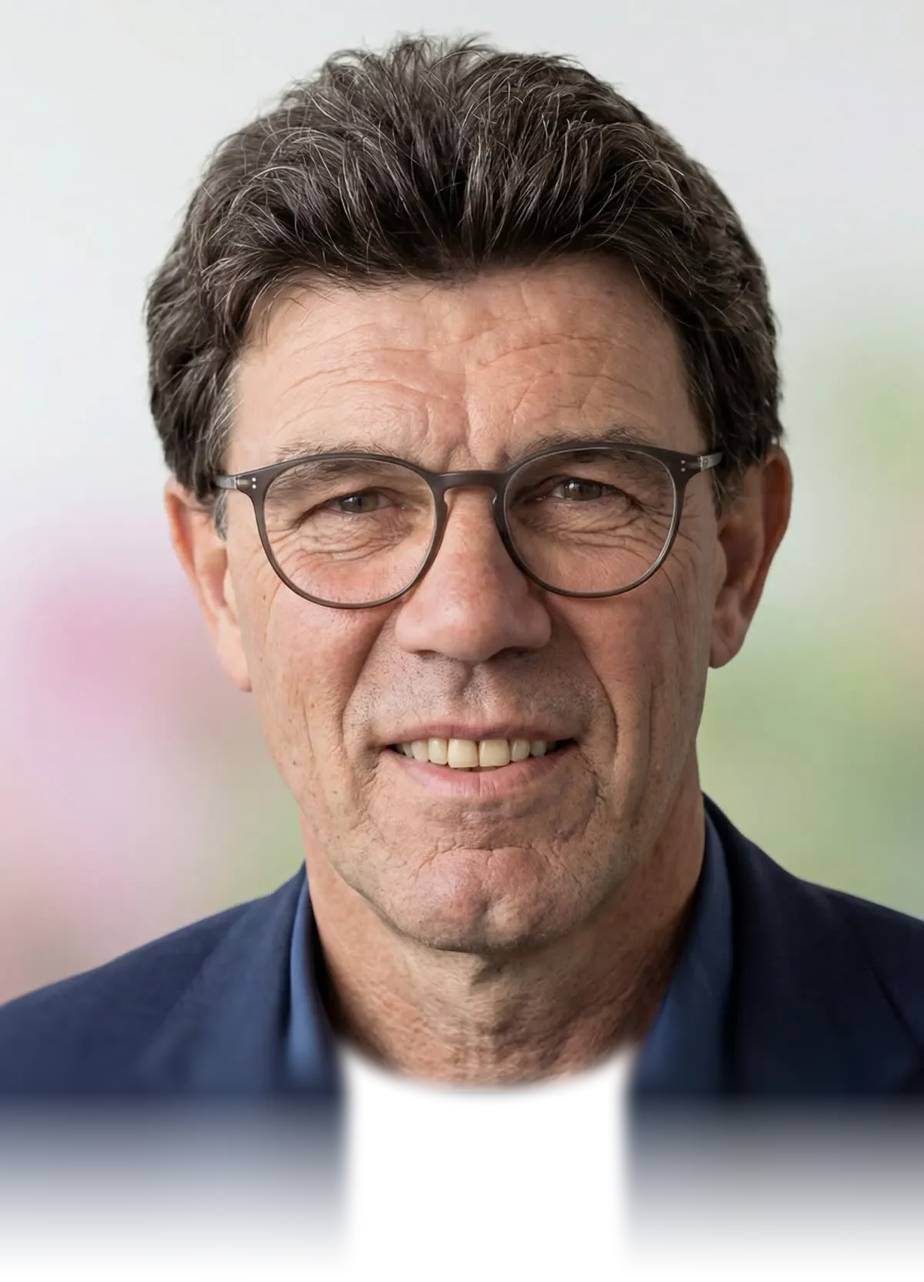
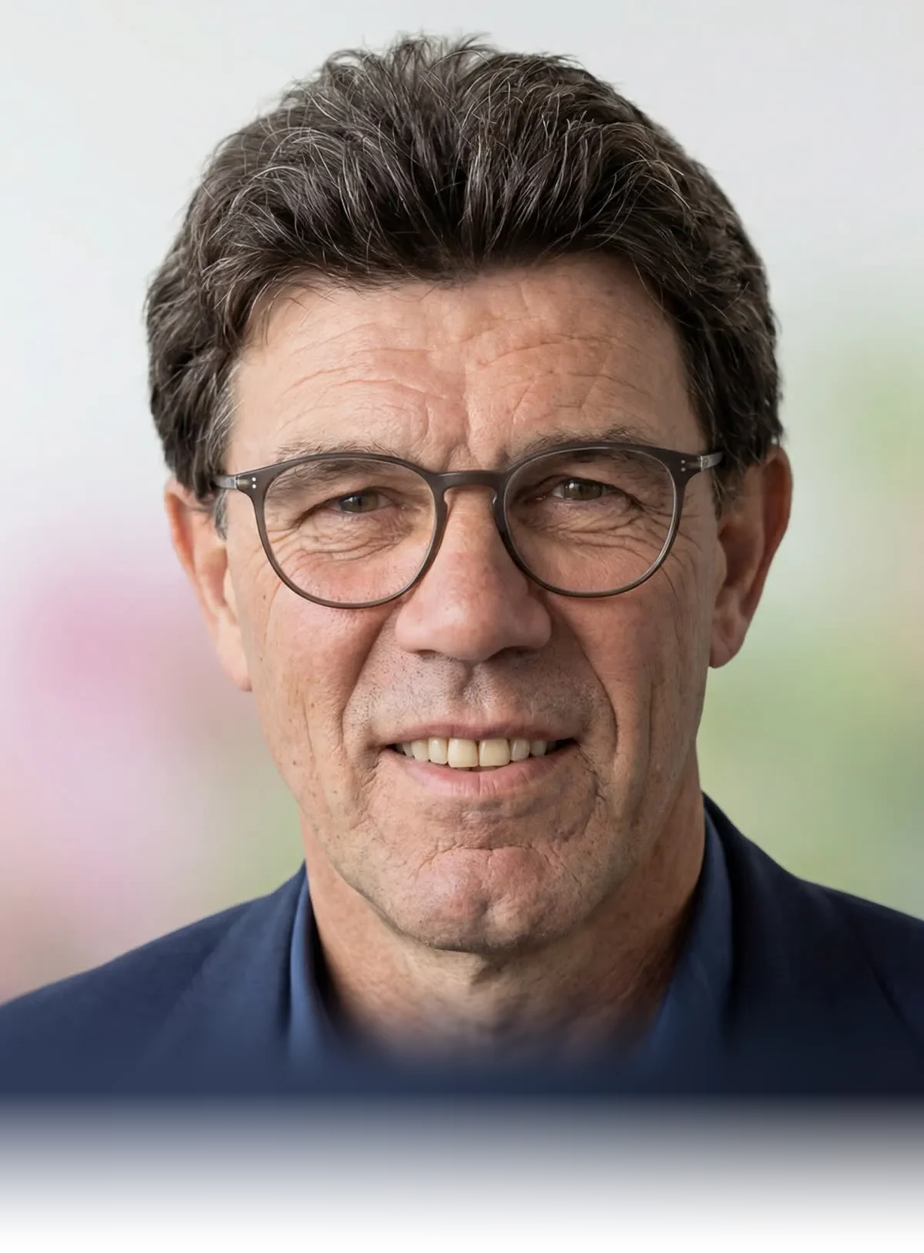
Founder mockup (phone, navy 3): one uniform fade, no arc
The arc cut-out looked patched. The photo now softens and fades evenly
across its width over a broad gradient in the jacket's own tones.

Claude-Session: https://claude.ai/code/session_017WGSR2bqFmGwdHZQuiThhV

diff --git a/mockup-v3/block-mockups/waarom-kweker/index.html b/mockup-v3/block-mockups/waarom-kweker/index.html
@@ -95,14 +95,14 @@
   /* 1 = first version: fade from 86 %, text pulled up 14px */
   .m-n1 .fd-ph .ph-in{-webkit-mask-image:linear-gradient(to bottom,#000 86%,rgba(0,0,0,.84) 89%,rgba(0,0,0,.55) 92.5%,rgba(0,0,0,.26) 96%,rgba(0,0,0,.08) 98.5%,transparent 100%);mask-image:linear-gradient(to bottom,#000 86%,rgba(0,0,0,.84) 89%,rgba(0,0,0,.55) 92.5%,rgba(0,0,0,.26) 96%,rgba(0,0,0,.08) 98.5%,transparent 100%)}
   .m-n1 .fd-pn{margin-top:-14px}
-  /* 3 = phone portrait img/owner-portrait-m.webp (1200x1665): below the chin the photo goes progressively soft (sharp neck
-     texture no longer meets a smooth haze), then each column's own colour continues 72px and fades into the card
-     (jacket longer, neck shorter and muted). Everything baked into the image; no CSS mask. */
-  .m-n3 .fd-ph{aspect-ratio:1200/1665}
+  /* 3 = phone portrait img/owner-portrait-m.webp (1200x1628), one treatment across the full width: below the chin the photo
+     goes progressively soft and fades out (from 89 %, smoothstep) over a broad gradient in the jacket's own tones
+     (lit left, shadow right), which then fades into the card over 61px. No zones, masks or cut-outs. */
+  .m-n3 .fd-ph{aspect-ratio:1200/1628}
   .m-n3 .fd-ph picture{display:none}
   .m-n3 .fd-ph .ph-in{-webkit-mask-image:none;mask-image:none}
   .m-n3 .fd-ph .ph-in img.ph-m{display:block}
-  .m-n3 .fd-pn{margin-top:-16px}
+  .m-n3 .fd-pn{margin-top:-5px}
 }
 a:focus-visible{outline:2px solid var(--moss);outline-offset:3px}
 @media (max-width:1100px){.adv{grid-template-columns:repeat(2,minmax(0,1fr))}}
@@ -129,7 +129,7 @@ header.fixed{top:48px}
 .rv button[aria-pressed="true"]{background:#f1efea;color:#141413;border-color:#f1efea}
 .rv .sep{width:1px;height:22px;background:#3a3a36}
 @media (max-width:520px){.rv .l{display:none}.rv button{min-width:36px;padding:0 10px}.rv-g i{display:none}}
-</style></head><body><div class="rv" role="group" aria-label="Варианты"><div class="rv-g"><i>Waarom wij</i><button type="button" data-g="w" data-v="a" aria-pressed="true">A<span class="l"> · Список</span></button><button type="button" data-g="w" data-v="b" aria-pressed="false">B<span class="l"> · Преимущества</span></button></div><span class="sep" aria-hidden="true"></span><div class="rv-g"><i>Телефон</i><button type="button" data-g="m" data-v="n1" aria-pressed="false">1<span class="l"> · было</span></button><button type="button" data-g="m" data-v="n2" aria-pressed="false">2<span class="l"> · сейчас</span></button><button type="button" data-g="m" data-v="n3" aria-pressed="true">3<span class="l"> · пиджак</span></button><button type="button" data-g="m" data-v="light" aria-pressed="false">Светлая</button></div></div><div id="root"><header class="fixed inset-x-0 top-0 z-50"><div class="transition-all duration-500"><div class="mx-auto flex items-center justify-between border-b border-fg/10 bg-bg/90 text-fg backdrop-blur-xl transition-all duration-500 supports-[backdrop-filter]:bg-bg/80 w-full container-x h-16 md:h-20"><a href="#" aria-label="Top Rhododendrons, naar de homepage" class="flex items-center"><span class="inline-flex items-center gap-2.5 text-fg"><svg viewBox="0 0 40 40" class="size-8 shrink-0" aria-hidden="true" focusable="false"><rect x="1" y="1" width="38" height="38" rx="11" fill="currentColor"></rect><path d="M12 13h16" stroke="var(--color-bg)" stroke-width="2.6" stroke-linecap="round"></path><path d="M20 13v15" stroke="var(--color-bg)" stroke-width="2.6" stroke-linecap="round"></path><path d="M20 28c0-6 3.5-9.5 9-9.5 0 6-3.5 9.5-9 9.5Z" fill="var(--color-bg)"></path></svg><span class="flex flex-col leading-none"><span class="whitespace-nowrap font-display font-semibold tracking-[-0.02em] text-[17px]">Top Rhododendrons</span></span></span></a><nav class="hidden items-center gap-7 lg:flex" aria-label="Hoofdnavigatie"><a href="#planten" class="text-[14px] tracking-[0.01em] transition-colors text-fg-2 hover:text-fg">Planten</a><a href="#kweker" class="text-[14px] tracking-[0.01em] transition-colors text-fg-2 hover:text-fg">De kweker</a><a href="#advies" class="text-[14px] tracking-[0.01em] transition-colors text-fg-2 hover:text-fg">Advies</a><a href="#" class="text-[14px] tracking-[0.01em] transition-colors hover:text-fg font-medium text-fg">Groothandel</a></nav><div class="flex items-center gap-3"><div class="hidden lg:block"><a class="inline-flex items-center justify-center gap-2 whitespace-nowrap font-medium transition-all duration-300 disabled:opacity-60 disabled:pointer-events-none select-none bg-accent text-accent-fg hover:opacity-90 h-10 px-4 text-[13px] rounded-ui group/btn" href="#planten">Bestellen</a></div><button type="button" aria-expanded="false" aria-controls="mobile-menu" aria-label="Menu openen" class="relative flex size-11 items-center justify-center rounded-full border border-fg/25 text-fg lg:hidden"><span class="absolute h-px w-5 bg-current transition-transform duration-300 -translate-y-[3px]"></span><span class="absolute h-px w-5 bg-current transition-transform duration-300 translate-y-[3px]"></span></button></div></div></div></header><main id="main"><section id="hero" class="relative flex min-h-[100svh] w-full flex-col justify-end overflow-hidden bg-black text-white on-dark tabp:justify-start split:justify-center"><div class="absolute inset-0"><img src="img/hero-field.jpg" alt="" aria-hidden="true" class="absolute inset-0 h-full w-full object-cover" style="object-position: 45% 60%;"><div class="pointer-events-none absolute inset-0 bg-black/10 split:hidden sc-veil"></div><div aria-hidden="true" class="hero-scrim hero-scrim-photo pointer-events-none absolute inset-0 hidden split:block"></div><div class="pointer-events-none absolute inset-x-0 bottom-0 bg-gradient-to-t to-transparent tabp:hidden split:hidden h-[68%] from-black/90 via-black/72 sc-phone"></div><div class="pointer-events-none absolute inset-x-0 top-0 hidden h-[62%] bg-gradient-to-b from-black/80 via-black/45 to-transparent tabp:block sc-tab"></div></div><div class="relative w-full container-x pt-28 pb-7 shortphone:pb-5 tabp:pt-32 split:py-28"><div class="flex max-w-4xl flex-col items-start gap-3 md:gap-5 tabp:max-w-[21.5rem] split:max-w-[36rem]"><h1 class="font-display text-balance text-[clamp(30px,8.4vw,38px)] font-medium leading-[0.98] tracking-[-0.04em] tabp:text-[36px] split:text-[clamp(38px,4.6vw,72px)]"><span class="inline-flex flex-wrap"><span class="inline-block" style="margin-right: 0.26em; opacity: 1; transform: none;">Rhododendrons</span><span class="inline-block" style="margin-right: 0.26em; opacity: 1; transform: none;">die</span><span class="inline-block" style="margin-right: 0.26em; opacity: 1; transform: none;">aanslaan.</span><span class="inline-block" style="margin-right: 0.26em; opacity: 1; transform: none;">Met</span><span class="inline-block" style="margin-right: 0px; opacity: 1; transform: none;">aangroeigarantie.</span></span></h1><p class="max-w-xl text-[15px] leading-relaxed text-white/90 shortphone:hidden md:text-lg split:text-[17px]" style="opacity: 1; transform: none;">Gekweekt op veenrijke bodem, met een sterk wortelstelsel. Vers gerooid voor uw levering, bezorgd met eigen transport of af te halen in Otterlo.</p><div class="mt-1 flex flex-wrap gap-3" style="opacity: 1; transform: none;"><a class="inline-flex items-center justify-center gap-2 whitespace-nowrap font-medium transition-all duration-300 disabled:opacity-60 disabled:pointer-events-none select-none bg-white text-[#141414] hover:bg-white/90 h-12 text-[14px] rounded-ui group/btn px-5 split:h-14 split:px-8 split:text-[15px]" href="#planten">Bekijk de planten<svg xmlns="http://www.w3.org/2000/svg" width="24" height="24" viewBox="0 0 24 24" fill="none" stroke="currentColor" stroke-width="2" stroke-linecap="round" stroke-linejoin="round" class="lucide lucide-arrow-right size-4 transition-transform duration-300 group-hover/btn:translate-x-1" aria-hidden="true"><path d="M5 12h14"></path><path d="m12 5 7 7-7 7"></path></svg></a><a class="inline-flex items-center justify-center gap-2 whitespace-nowrap font-medium transition-all duration-300 disabled:opacity-60 disabled:pointer-events-none select-none border border-white/70 text-white hover:bg-white hover:text-[#141414] hover:border-white h-12 text-[14px] rounded-ui group/btn px-5 split:h-14 split:px-8 split:text-[15px]" href="#">Groothandel</a></div></div></div></section><section class="wh" id="waarom" aria-labelledby="h-waarom"><div class="in"><div class="wh-head"><h2 id="h-waarom">Wij kweken rhododendrons. <span class="nb">Niet meer, niet minder.</span></h2><p>Onze planten groeien in de volle grond op veenrijke bodem en ontwikkelen daar een sterk wortelstelsel. Gerooid met kluit, direct van het veld naar uw tuin.</p></div><ul class="srow" aria-label="Feiten"><li><b>10.000</b><span>planten op voorraad</span></li><li><b>Sinds 2001</b><span>familiekwekerij in Otterlo</span></li><li><b>7 soorten</b><span>in 4 maten, 40 tot 120 cm</span></li><li><b>Vanaf 1 plant</b><span>geen minimumbestelling</span></li></ul><div class="wa"><ol class="el"><li><span class="n">01</span><div class="el-t"><h3>Aangroeigarantie op elke plant</h3><p>Niet aangeslagen in het eerste seizoen? Wij vervangen kosteloos.</p></div><span class="el-note">Wij vervangen kosteloos</span></li><li><span class="n">02</span><div class="el-t"><h3>Vers gerooid voor uw levering</h3><p>Wij stemmen bezorging of afhaal af op uw planning en rooien uw planten pas vlak daarvoor.</p></div><span class="el-note">Op uw planning</span></li><li><span class="n">03</span><div class="el-t"><h3>Persoonlijk advies van de kweker</h3><p>U spreekt rechtstreeks met Gert, van vraag tot levering.</p></div><span class="el-note">Rechtstreeks met Gert</span></li><li><span class="n">04</span><div class="el-t"><h3>Eigen transport of afhalen</h3><p>Bezorgd met eigen transport door heel Nederland, of af te halen in Otterlo.</p></div><span class="el-note">Heel Nederland of Otterlo</span></li></ol></div><div class="wb"><ul class="adv"><li><svg class="ic" viewBox="0 0 24 24" aria-hidden="true"><path d="M20 13c0 5-3.5 7.5-7.66 8.95a1 1 0 0 1-.67-.01C7.5 20.5 4 18 4 13V6a1 1 0 0 1 1-1c2 0 4.5-1.2 6.24-2.72a1.17 1.17 0 0 1 1.52 0C14.51 3.81 17 5 19 5a1 1 0 0 1 1 1z" data-accent="" style="fill:var(--wash);fill-opacity:.55"/><path d="M20 13c0 5-3.5 7.5-7.66 8.95a1 1 0 0 1-.67-.01C7.5 20.5 4 18 4 13V6a1 1 0 0 1 1-1c2 0 4.5-1.2 6.24-2.72a1.17 1.17 0 0 1 1.52 0C14.51 3.81 17 5 19 5a1 1 0 0 1 1 1z"/></svg><div><h3>Aangroeigarantie op elke plant</h3><p>Niet aangeslagen in het eerste seizoen? Wij vervangen kosteloos.</p></div></li><li><svg class="ic" viewBox="0 0 24 24" aria-hidden="true"><path d="M16 14v2.2l1.6 1" data-accent=""/><path d="M16 14v2.2l1.6 1"/><path d="M16 2v4" data-accent=""/><path d="M16 2v4"/><path d="M21 7.5V6a2 2 0 0 0-2-2H5a2 2 0 0 0-2 2v14a2 2 0 0 0 2 2h3.5" data-accent=""/><path d="M21 7.5V6a2 2 0 0 0-2-2H5a2 2 0 0 0-2 2v14a2 2 0 0 0 2 2h3.5"/><path d="M3 10h5" data-accent=""/><path d="M3 10h5"/><path d="M8 2v4" data-accent=""/><path d="M8 2v4"/><circle cx="16" cy="16" r="6" data-accent="" style="fill:var(--wash);fill-opacity:.55"/><circle cx="16" cy="16" r="6"/></svg><div><h3>Vers gerooid voor uw levering</h3><p>Wij stemmen bezorging of afhaal af op uw planning en rooien uw planten pas vlak daarvoor.</p></div></li><li><svg class="ic" viewBox="0 0 24 24" aria-hidden="true"><path d="M2.992 16.342a2 2 0 0 1 .094 1.167l-1.065 3.29a1 1 0 0 0 1.236 1.168l3.413-.998a2 2 0 0 1 1.099.092 10 10 0 1 0-4.777-4.719" data-accent=""/><path d="M2.992 16.342a2 2 0 0 1 .094 1.167l-1.065 3.29a1 1 0 0 0 1.236 1.168l3.413-.998a2 2 0 0 1 1.099.092 10 10 0 1 0-4.777-4.719"/></svg><div><h3>Persoonlijk advies van de kweker</h3><p>U spreekt rechtstreeks met Gert, van vraag tot levering.</p></div></li><li><svg class="ic" viewBox="0 0 24 24" aria-hidden="true"><path d="M20 10c0 4.993-5.539 10.193-7.399 11.799a1 1 0 0 1-1.202 0C9.539 20.193 4 14.993 4 10a8 8 0 0 1 16 0" data-accent=""/><path d="M20 10c0 4.993-5.539 10.193-7.399 11.799a1 1 0 0 1-1.202 0C9.539 20.193 4 14.993 4 10a8 8 0 0 1 16 0"/><circle cx="12" cy="10" r="3" data-accent="" style="fill:var(--wash);fill-opacity:.55"/><circle cx="12" cy="10" r="3"/></svg><div><h3>Eigen transport of afhalen</h3><p>Bezorgd met eigen transport door heel Nederland, of af te halen in Otterlo.</p></div></li></ul></div></div></section><div class="between"><div class="in"><span>… hier volgen Assortiment en Hoe het werkt …</span></div></div><section class="fd" id="kweker" aria-labelledby="h-kweker"><div class="in"><div class="fd-card"><figure class="fd-ph"><div class="ph-in"><picture><source media="(min-width:861px)" srcset="img/owner-portrait-ext.webp" width="1580" height="1418"><img src="img/owner-portrait.webp" alt="Gert Top, oprichter en kweker van Top Rhododendrons" width="1200" height="1418" loading="lazy"></picture><img class="ph-m" src="img/owner-portrait-m.webp" alt="Gert Top, oprichter en kweker van Top Rhododendrons" width="1200" height="1665" loading="lazy"></div></figure><div class="fd-pn"><div class="fd-name"><h2 id="h-kweker">Gert Top</h2><p class="fd-role">Oprichter van Top Rhododendrons</p></div><p class="fd-txt">Eén gewas, sinds 2001.<br> Daardoor weten wij wat een rhododendron nodig heeft.</p><div class="fd-qw"><blockquote class="fd-q"><p>Een gezonde plant is geen toeval. Dat is onze standaard.</p></blockquote></div></div></div></div></section><div style="height:96px;background:#f1efea"></div></main></div><script>(function(){var root=document.documentElement,bs=[].slice.call(document.querySelectorAll('.rv button'));
+</style></head><body><div class="rv" role="group" aria-label="Варианты"><div class="rv-g"><i>Waarom wij</i><button type="button" data-g="w" data-v="a" aria-pressed="true">A<span class="l"> · Список</span></button><button type="button" data-g="w" data-v="b" aria-pressed="false">B<span class="l"> · Преимущества</span></button></div><span class="sep" aria-hidden="true"></span><div class="rv-g"><i>Телефон</i><button type="button" data-g="m" data-v="n1" aria-pressed="false">1<span class="l"> · было</span></button><button type="button" data-g="m" data-v="n2" aria-pressed="false">2<span class="l"> · сейчас</span></button><button type="button" data-g="m" data-v="n3" aria-pressed="true">3<span class="l"> · пиджак</span></button><button type="button" data-g="m" data-v="light" aria-pressed="false">Светлая</button></div></div><div id="root"><header class="fixed inset-x-0 top-0 z-50"><div class="transition-all duration-500"><div class="mx-auto flex items-center justify-between border-b border-fg/10 bg-bg/90 text-fg backdrop-blur-xl transition-all duration-500 supports-[backdrop-filter]:bg-bg/80 w-full container-x h-16 md:h-20"><a href="#" aria-label="Top Rhododendrons, naar de homepage" class="flex items-center"><span class="inline-flex items-center gap-2.5 text-fg"><svg viewBox="0 0 40 40" class="size-8 shrink-0" aria-hidden="true" focusable="false"><rect x="1" y="1" width="38" height="38" rx="11" fill="currentColor"></rect><path d="M12 13h16" stroke="var(--color-bg)" stroke-width="2.6" stroke-linecap="round"></path><path d="M20 13v15" stroke="var(--color-bg)" stroke-width="2.6" stroke-linecap="round"></path><path d="M20 28c0-6 3.5-9.5 9-9.5 0 6-3.5 9.5-9 9.5Z" fill="var(--color-bg)"></path></svg><span class="flex flex-col leading-none"><span class="whitespace-nowrap font-display font-semibold tracking-[-0.02em] text-[17px]">Top Rhododendrons</span></span></span></a><nav class="hidden items-center gap-7 lg:flex" aria-label="Hoofdnavigatie"><a href="#planten" class="text-[14px] tracking-[0.01em] transition-colors text-fg-2 hover:text-fg">Planten</a><a href="#kweker" class="text-[14px] tracking-[0.01em] transition-colors text-fg-2 hover:text-fg">De kweker</a><a href="#advies" class="text-[14px] tracking-[0.01em] transition-colors text-fg-2 hover:text-fg">Advies</a><a href="#" class="text-[14px] tracking-[0.01em] transition-colors hover:text-fg font-medium text-fg">Groothandel</a></nav><div class="flex items-center gap-3"><div class="hidden lg:block"><a class="inline-flex items-center justify-center gap-2 whitespace-nowrap font-medium transition-all duration-300 disabled:opacity-60 disabled:pointer-events-none select-none bg-accent text-accent-fg hover:opacity-90 h-10 px-4 text-[13px] rounded-ui group/btn" href="#planten">Bestellen</a></div><button type="button" aria-expanded="false" aria-controls="mobile-menu" aria-label="Menu openen" class="relative flex size-11 items-center justify-center rounded-full border border-fg/25 text-fg lg:hidden"><span class="absolute h-px w-5 bg-current transition-transform duration-300 -translate-y-[3px]"></span><span class="absolute h-px w-5 bg-current transition-transform duration-300 translate-y-[3px]"></span></button></div></div></div></header><main id="main"><section id="hero" class="relative flex min-h-[100svh] w-full flex-col justify-end overflow-hidden bg-black text-white on-dark tabp:justify-start split:justify-center"><div class="absolute inset-0"><img src="img/hero-field.jpg" alt="" aria-hidden="true" class="absolute inset-0 h-full w-full object-cover" style="object-position: 45% 60%;"><div class="pointer-events-none absolute inset-0 bg-black/10 split:hidden sc-veil"></div><div aria-hidden="true" class="hero-scrim hero-scrim-photo pointer-events-none absolute inset-0 hidden split:block"></div><div class="pointer-events-none absolute inset-x-0 bottom-0 bg-gradient-to-t to-transparent tabp:hidden split:hidden h-[68%] from-black/90 via-black/72 sc-phone"></div><div class="pointer-events-none absolute inset-x-0 top-0 hidden h-[62%] bg-gradient-to-b from-black/80 via-black/45 to-transparent tabp:block sc-tab"></div></div><div class="relative w-full container-x pt-28 pb-7 shortphone:pb-5 tabp:pt-32 split:py-28"><div class="flex max-w-4xl flex-col items-start gap-3 md:gap-5 tabp:max-w-[21.5rem] split:max-w-[36rem]"><h1 class="font-display text-balance text-[clamp(30px,8.4vw,38px)] font-medium leading-[0.98] tracking-[-0.04em] tabp:text-[36px] split:text-[clamp(38px,4.6vw,72px)]"><span class="inline-flex flex-wrap"><span class="inline-block" style="margin-right: 0.26em; opacity: 1; transform: none;">Rhododendrons</span><span class="inline-block" style="margin-right: 0.26em; opacity: 1; transform: none;">die</span><span class="inline-block" style="margin-right: 0.26em; opacity: 1; transform: none;">aanslaan.</span><span class="inline-block" style="margin-right: 0.26em; opacity: 1; transform: none;">Met</span><span class="inline-block" style="margin-right: 0px; opacity: 1; transform: none;">aangroeigarantie.</span></span></h1><p class="max-w-xl text-[15px] leading-relaxed text-white/90 shortphone:hidden md:text-lg split:text-[17px]" style="opacity: 1; transform: none;">Gekweekt op veenrijke bodem, met een sterk wortelstelsel. Vers gerooid voor uw levering, bezorgd met eigen transport of af te halen in Otterlo.</p><div class="mt-1 flex flex-wrap gap-3" style="opacity: 1; transform: none;"><a class="inline-flex items-center justify-center gap-2 whitespace-nowrap font-medium transition-all duration-300 disabled:opacity-60 disabled:pointer-events-none select-none bg-white text-[#141414] hover:bg-white/90 h-12 text-[14px] rounded-ui group/btn px-5 split:h-14 split:px-8 split:text-[15px]" href="#planten">Bekijk de planten<svg xmlns="http://www.w3.org/2000/svg" width="24" height="24" viewBox="0 0 24 24" fill="none" stroke="currentColor" stroke-width="2" stroke-linecap="round" stroke-linejoin="round" class="lucide lucide-arrow-right size-4 transition-transform duration-300 group-hover/btn:translate-x-1" aria-hidden="true"><path d="M5 12h14"></path><path d="m12 5 7 7-7 7"></path></svg></a><a class="inline-flex items-center justify-center gap-2 whitespace-nowrap font-medium transition-all duration-300 disabled:opacity-60 disabled:pointer-events-none select-none border border-white/70 text-white hover:bg-white hover:text-[#141414] hover:border-white h-12 text-[14px] rounded-ui group/btn px-5 split:h-14 split:px-8 split:text-[15px]" href="#">Groothandel</a></div></div></div></section><section class="wh" id="waarom" aria-labelledby="h-waarom"><div class="in"><div class="wh-head"><h2 id="h-waarom">Wij kweken rhododendrons. <span class="nb">Niet meer, niet minder.</span></h2><p>Onze planten groeien in de volle grond op veenrijke bodem en ontwikkelen daar een sterk wortelstelsel. Gerooid met kluit, direct van het veld naar uw tuin.</p></div><ul class="srow" aria-label="Feiten"><li><b>10.000</b><span>planten op voorraad</span></li><li><b>Sinds 2001</b><span>familiekwekerij in Otterlo</span></li><li><b>7 soorten</b><span>in 4 maten, 40 tot 120 cm</span></li><li><b>Vanaf 1 plant</b><span>geen minimumbestelling</span></li></ul><div class="wa"><ol class="el"><li><span class="n">01</span><div class="el-t"><h3>Aangroeigarantie op elke plant</h3><p>Niet aangeslagen in het eerste seizoen? Wij vervangen kosteloos.</p></div><span class="el-note">Wij vervangen kosteloos</span></li><li><span class="n">02</span><div class="el-t"><h3>Vers gerooid voor uw levering</h3><p>Wij stemmen bezorging of afhaal af op uw planning en rooien uw planten pas vlak daarvoor.</p></div><span class="el-note">Op uw planning</span></li><li><span class="n">03</span><div class="el-t"><h3>Persoonlijk advies van de kweker</h3><p>U spreekt rechtstreeks met Gert, van vraag tot levering.</p></div><span class="el-note">Rechtstreeks met Gert</span></li><li><span class="n">04</span><div class="el-t"><h3>Eigen transport of afhalen</h3><p>Bezorgd met eigen transport door heel Nederland, of af te halen in Otterlo.</p></div><span class="el-note">Heel Nederland of Otterlo</span></li></ol></div><div class="wb"><ul class="adv"><li><svg class="ic" viewBox="0 0 24 24" aria-hidden="true"><path d="M20 13c0 5-3.5 7.5-7.66 8.95a1 1 0 0 1-.67-.01C7.5 20.5 4 18 4 13V6a1 1 0 0 1 1-1c2 0 4.5-1.2 6.24-2.72a1.17 1.17 0 0 1 1.52 0C14.51 3.81 17 5 19 5a1 1 0 0 1 1 1z" data-accent="" style="fill:var(--wash);fill-opacity:.55"/><path d="M20 13c0 5-3.5 7.5-7.66 8.95a1 1 0 0 1-.67-.01C7.5 20.5 4 18 4 13V6a1 1 0 0 1 1-1c2 0 4.5-1.2 6.24-2.72a1.17 1.17 0 0 1 1.52 0C14.51 3.81 17 5 19 5a1 1 0 0 1 1 1z"/></svg><div><h3>Aangroeigarantie op elke plant</h3><p>Niet aangeslagen in het eerste seizoen? Wij vervangen kosteloos.</p></div></li><li><svg class="ic" viewBox="0 0 24 24" aria-hidden="true"><path d="M16 14v2.2l1.6 1" data-accent=""/><path d="M16 14v2.2l1.6 1"/><path d="M16 2v4" data-accent=""/><path d="M16 2v4"/><path d="M21 7.5V6a2 2 0 0 0-2-2H5a2 2 0 0 0-2 2v14a2 2 0 0 0 2 2h3.5" data-accent=""/><path d="M21 7.5V6a2 2 0 0 0-2-2H5a2 2 0 0 0-2 2v14a2 2 0 0 0 2 2h3.5"/><path d="M3 10h5" data-accent=""/><path d="M3 10h5"/><path d="M8 2v4" data-accent=""/><path d="M8 2v4"/><circle cx="16" cy="16" r="6" data-accent="" style="fill:var(--wash);fill-opacity:.55"/><circle cx="16" cy="16" r="6"/></svg><div><h3>Vers gerooid voor uw levering</h3><p>Wij stemmen bezorging of afhaal af op uw planning en rooien uw planten pas vlak daarvoor.</p></div></li><li><svg class="ic" viewBox="0 0 24 24" aria-hidden="true"><path d="M2.992 16.342a2 2 0 0 1 .094 1.167l-1.065 3.29a1 1 0 0 0 1.236 1.168l3.413-.998a2 2 0 0 1 1.099.092 10 10 0 1 0-4.777-4.719" data-accent=""/><path d="M2.992 16.342a2 2 0 0 1 .094 1.167l-1.065 3.29a1 1 0 0 0 1.236 1.168l3.413-.998a2 2 0 0 1 1.099.092 10 10 0 1 0-4.777-4.719"/></svg><div><h3>Persoonlijk advies van de kweker</h3><p>U spreekt rechtstreeks met Gert, van vraag tot levering.</p></div></li><li><svg class="ic" viewBox="0 0 24 24" aria-hidden="true"><path d="M20 10c0 4.993-5.539 10.193-7.399 11.799a1 1 0 0 1-1.202 0C9.539 20.193 4 14.993 4 10a8 8 0 0 1 16 0" data-accent=""/><path d="M20 10c0 4.993-5.539 10.193-7.399 11.799a1 1 0 0 1-1.202 0C9.539 20.193 4 14.993 4 10a8 8 0 0 1 16 0"/><circle cx="12" cy="10" r="3" data-accent="" style="fill:var(--wash);fill-opacity:.55"/><circle cx="12" cy="10" r="3"/></svg><div><h3>Eigen transport of afhalen</h3><p>Bezorgd met eigen transport door heel Nederland, of af te halen in Otterlo.</p></div></li></ul></div></div></section><div class="between"><div class="in"><span>… hier volgen Assortiment en Hoe het werkt …</span></div></div><section class="fd" id="kweker" aria-labelledby="h-kweker"><div class="in"><div class="fd-card"><figure class="fd-ph"><div class="ph-in"><picture><source media="(min-width:861px)" srcset="img/owner-portrait-ext.webp" width="1580" height="1418"><img src="img/owner-portrait.webp" alt="Gert Top, oprichter en kweker van Top Rhododendrons" width="1200" height="1418" loading="lazy"></picture><img class="ph-m" src="img/owner-portrait-m.webp" alt="Gert Top, oprichter en kweker van Top Rhododendrons" width="1200" height="1628" loading="lazy"></div></figure><div class="fd-pn"><div class="fd-name"><h2 id="h-kweker">Gert Top</h2><p class="fd-role">Oprichter van Top Rhododendrons</p></div><p class="fd-txt">Eén gewas, sinds 2001.<br> Daardoor weten wij wat een rhododendron nodig heeft.</p><div class="fd-qw"><blockquote class="fd-q"><p>Een gezonde plant is geen toeval. Dat is onze standaard.</p></blockquote></div></div></div></div></section><div style="height:96px;background:#f1efea"></div></main></div><script>(function(){var root=document.documentElement,bs=[].slice.call(document.querySelectorAll('.rv button'));
 function set(g,v){var pre=g+'-';[].slice.call(root.classList).forEach(function(c){if(c.indexOf(pre)===0)root.classList.remove(c)});root.classList.add(pre+v);
 bs.forEach(function(b){if(b.getAttribute('data-g')===g)b.setAttribute('aria-pressed',b.getAttribute('data-v')===v?'true':'false')})}
 bs.forEach(function(b){b.addEventListener('click',function(){set(b.getAttribute('data-g'),b.getAttribute('data-v'))})})})();</script></body></html>

diff --git a/mockup-v3/block-mockups/waarom-kweker/tools/phone_portrait.py b/mockup-v3/block-mockups/waarom-kweker/tools/phone_portrait.py
@@ -1,61 +1,43 @@
-# Mockup tool (not site code): builds img/owner-portrait-m.webp. Usage: python3 phone_portrait.py <out.webp> [preview.png] [arc_end_y=1330]
-# Phone portrait v3: jacket/collars soft-focus and fade into the card (as v2); the neck stays sharp down to an arc
-# from collar to collar along the bottom of the neck; below the arc the card shows (alpha 0). Colour/blur only.
+# Mockup tool (not site code): builds img/owner-portrait-m.webp. Usage: python3 phone_portrait.py <out.webp> [preview.png] [fade_start=0.89]
+# Phone portrait v4: one uniform treatment across the full width (no zones):
+# below the chin the photo goes progressively soft and fades out; underneath lies a broad gradient in the jacket's own
+# tones (lit left, shadow right; collar/neck replaced by the jacket, smoothed very wide), which then fades into the card.
 from PIL import Image, ImageFilter
 import numpy as np, sys
 OUT=sys.argv[1]; PREV=sys.argv[2] if len(sys.argv)>2 else None
+F0=float(sys.argv[3]) if len(sys.argv)>3 else 0.89     # photo fade starts here (fraction of photo height)
 P=np.asarray(Image.open('/home/user/TopRododendron-2/mockup-v3/block-mockups/waarom-kweker/img/owner-portrait.webp').convert('RGB')).astype(float)
-H,W,_=P.shape; TAIL=247; HT=H+TAIL
+H,W,_=P.shape; TAIL=210; HT=H+TAIL
 def blur(a,s): return np.asarray(Image.fromarray(np.clip(a,0,255).astype(np.uint8)).filter(ImageFilter.GaussianBlur(s))).astype(float)
-def blur1(m,s): return np.asarray(Image.fromarray(np.clip(m*255,0,255).astype(np.uint8)).filter(ImageFilter.GaussianBlur(s))).astype(float)/255
 def g1(a,s):
     k=np.exp(-0.5*(np.arange(-3*s,3*s+1)/s)**2); k/=k.sum()
     return np.stack([np.convolve(np.pad(a[:,c],3*s,mode='edge'),k,mode='valid') for c in range(a.shape[1])],1)
 X=np.arange(W)
-# --- tail colours: jacket only (collar strips replaced by the jacket), smoothed wide
-bottom=g1(P[H-10:H].mean(0),6)
-jrow=bottom.copy(); zone=(X>=360)&(X<=880)
-for c in range(3): jrow[zone,c]=np.interp(X[zone],[359,881],[bottom[359,c],bottom[881,c]])
-jac=g1(jrow,40); jstart=g1(jrow,8)        # under the photo the collars continue as jacket straight away
-tail=np.zeros((TAIL,W,3)); TA=np.zeros((TAIL,W))
+row=P[H-14:H].mean(0)
+jrow=row.copy(); zone=(X>=350)&(X<=890)
+for c in range(3): jrow[zone,c]=np.interp(X[zone],[349,891],[row[349,c],row[891,c]])
+base=g1(jrow,160)                                    # very broad: a smooth left-to-right jacket gradient, no detail
+# background layer: jacket gradient under the photo's fading part, then a tail that fades into the card
+BG=np.repeat(base[None],HT,0); BA=np.ones((HT,W))
 for k in range(TAIL):
-    u=k/(TAIL-1); m=min(1,u/0.22)**0.8
-    tail[k]=jstart*(1-m)+jac*m
-    TA[k]=(1-u)**1.5
-canvas=np.concatenate([P,tail],0)
-# collar tips: over the photo's last 70px the collar strips blend into the jacket colour, so they taper off instead of being cut
-_xl=lambda y:418+(450-418)*(y-1150)/268; _xr=lambda y:850-(850-811)*(y-1150)/268
-for y in range(H-70,H):
-    r=((y-(H-70))/70)**1.3
-    cz=((X>360)&(X<880)&~((X>_xl(y))&(X<_xr(y)))).astype(float)
-    cz=g1(cz[:,None],6)[:,0]
-    canvas[y]=canvas[y]*(1-(r*cz)[:,None])+jstart*(r*cz)[:,None]
-# --- progressive soft focus (jacket, collars): from 88.5 % to 12 px at the photo edge, 17 px in the tail
-Y0=int(0.885*H); sig=[0,1,2,3.5,5.5,8,12,17]
-Bs=[canvas]+[blur(canvas,s) for s in sig[1:]]
-soft=canvas.copy()
-for y in range(Y0,HT):
-    t=(y-Y0)/(H-Y0)
-    s=min(sig[-1],12.0*t**1.6) if t<=1 else min(sig[-1],12+5*(t-1))
+    u=k/(TAIL-1); BA[H+k]=(1-u)**1.6
+# photo layer: progressive soft focus + eased alpha fade, identical across the width
+Y0=int(F0*H)-30; sig=[0,1,2,3.5,5.5,8]
+Bs=[P]+[blur(P,s) for s in sig[1:]]
+ph=P.copy()
+for y in range(Y0,H):
+    t=(y-Y0)/(H-1-Y0); s=8.0*t**1.5
     i=int(np.searchsorted(sig,s)); i=min(max(i,1),len(sig)-1); a=(s-sig[i-1])/(sig[i]-sig[i-1])
-    soft[y]=Bs[i-1][y]*(1-a)+Bs[i][y]*a
-# --- neck: inner collar edges and the arc
-xl=lambda y:418+(450-418)*(y-1150)/268
-xr=lambda y:850-(850-811)*(y-1150)/268
-YE=int(sys.argv[3]) if len(sys.argv)>3 else 1330; YB=1414
-xa,xb=xl(YE),xr(YE); xc=(xa+xb)/2; hw=(xb-xa)/2
-Y=np.arange(HT)[:,None]; XX=X[None,:].astype(float)
-inzone=(XX>xl(Y))&(XX<xr(Y))&(Y>=1150)
-yarc=np.where(np.abs(XX-xc)<hw, YE+(YB-YE)*np.sqrt(np.clip(1-((XX-xc)/hw)**2,0,1)), YE)
-above=(Y<yarc)|(Y<YE)
-keep=(inzone&above).astype(float)          # sharp neck
-below=(inzone&~above).astype(float)        # under the arc: card shows
-below[H:,:]=np.maximum(below[H:,:],((X>xl(H))&(X<xr(H))).astype(float)[None,:])   # and the tail under the neck
-keep=blur1(keep,8); below=blur1(below,10)
-rgb=keep[...,None]*canvas+(1-keep[...,None])*soft
-alpha=np.concatenate([np.ones((H,W)),TA],0)*(1-below)
-im=Image.fromarray(np.dstack([np.clip(rgb,0,255),np.clip(alpha,0,1)[...,None]*255]).astype(np.uint8),'RGBA')
+    ph[y]=Bs[i-1][y]*(1-a)+Bs[i][y]*a
+PA=np.ones(H); y0=int(F0*H)
+for y in range(y0,H):
+    t=(y-y0)/(H-1-y0); PA[y]=1-(3*t*t-2*t*t*t)       # smoothstep: soft start, soft end
+# composite photo over background
+rgb=BG.copy(); alpha=BA.copy()
+a=PA[:,None]
+rgb[:H]=ph*a[...,None]+BG[:H]*(1-a)[...,None]
+im=Image.fromarray(np.dstack([np.clip(rgb,0,255),alpha[...,None]*255]).astype(np.uint8),'RGBA')
 im.save(OUT,'WEBP',quality=86,alpha_quality=100,method=6)
 if PREV:
-    bg=Image.new('RGBA',im.size,(36,45,70,255)); Image.alpha_composite(bg,im).convert('RGB').crop((250,1050,1000,HT)).save(PREV)
-print(im.size)
+    bg=Image.new('RGBA',im.size,(35,44,69,255)); Image.alpha_composite(bg,im).convert('RGB').crop((0,1000,W,HT)).resize((600,(HT-1000)//2)).save(PREV)
+print(im.size, base[[0,300,600,900,1199]].astype(int).tolist())

diff --git a/docs/mockup-decisions.md b/docs/mockup-decisions.md
@@ -55,7 +55,7 @@ background: linear-gradient(to bottom, rgb(0 0 0 / .82) 0%, rgb(0 0 0 / .6) 52%,
 - Order in the panel (owner, 7 Nov): name "Gert Top" + role + text at the top, the quote at the bottom. The big "66" quote glyph is removed. Quote style approved (7 Nov): 2px moss rule on the left of the quote. Quote contrast ≥ 10.4:1.
 - Phone tidy-up (7 Nov): the pink glow inside the phone panel ended in a hard edge under the photo; removed.
 - Open: the owner saw a white strip, "криво обрезана", at the bottom left of the card in the DESKTOP version (not reproduced in Chromium: the photo reaches the card edge). The owner will re-check once the block is in the full mockup; fix then if it is still there.
-- Phone, in review (7 Nov, owner's idea): variant "Синяя" = the card in the jacket's navy (tones sampled from the portrait: lit #2f3a56, highlight #3f4d6c, shadow #0f1522; card #2c3653 → #232c45 → #1a2135). Photo full-bleed on top, the original photo (no extension). Only its last 10 % fades into the card (eased: 90 % opaque → 100 % transparent), well below the chin. Text starts 18 px below the photo. Rejected 7 Nov: drawing the photo on downward. The mirrored skin texture made the neck look reflected ("шея отзеркаливается, это баг"). The owner wants only a light transition. Three navy variants to compare in the review bar (7 Nov): 1 = first version (fade from 86 %, text pulled up 14 px); 2 = fade from 90 %, text 18 px below; 3 = phone portrait `img/owner-portrait-m.webp` (1200×1665, built by `tools/phone_portrait.py`, everything baked in, no CSS mask). Owner, 7 Nov, "на таком же уровне осветлить шею": the neck fades at the same level as the jacket. Owner, 7 Nov, "у шеи и воротника что-то рябит": the cause was the sharp, wrinkled neck texture meeting a perfectly smooth haze within ~30 px, plus light-blue collar bands running down. Fix: below the chin (from 88.5 %) the photo goes progressively soft (blur 0 → 12 px at the bottom edge, 17 px in the tail). Then each column's colour continues for 72 css px and fades into the card: the jacket smoothed wide, the collar strips replaced by the jacket, the neck muted (55 % skin / 45 % navy) and shorter. The lit chest in the last 5 % is calmed toward the same muted tone. Colour and blur only; no texture is copied, so nothing looks mirrored. Owner, 7 Nov, "как с плечом: по шее дугой от воротничка к воротничку, чтобы размытие не заходило на шею": the neck stays sharp down to an arc. The arc runs between the inner collar edges (x 439 → 824 at y 1330, original coordinates) and dips to y 1414. Below the arc the card shows (alpha 0, 10 px feather). Only the jacket and the collars get the soft focus and the 72 px tail. The collar tips taper into the jacket colour over the photo's last 70 px, and the neck no longer has a skin-tone tail. Owner, 7 Nov: "мало воздуха между текстом и портретом": the text block (name, role, text, quote) starts 56 px below the photo (was 18 px) and the card bottom padding is 34 px; the card is longer. Contrast ≥ 7.9:1 in all three. Light text: name #f5f2ea, role/text #c9cfdb, quote rule #a9b894. Contrast ≥ 8.2:1. Variant "Светлая" = the previous light card with the inset photo. Both in the review bar ("Телефон").
+- Phone, in review (7 Nov, owner's idea): variant "Синяя" = the card in the jacket's navy (tones sampled from the portrait: lit #2f3a56, highlight #3f4d6c, shadow #0f1522; card #2c3653 → #232c45 → #1a2135). Photo full-bleed on top, the original photo (no extension). Only its last 10 % fades into the card (eased: 90 % opaque → 100 % transparent), well below the chin. Text starts 18 px below the photo. Rejected 7 Nov: drawing the photo on downward. The mirrored skin texture made the neck look reflected ("шея отзеркаливается, это баг"). The owner wants only a light transition. Three navy variants to compare in the review bar (7 Nov): 1 = first version (fade from 86 %, text pulled up 14 px); 2 = fade from 90 %, text 18 px below; 3 = phone portrait `img/owner-portrait-m.webp` (1200×1665, built by `tools/phone_portrait.py`, everything baked in, no CSS mask). Owner, 7 Nov, "на таком же уровне осветлить шею": the neck fades at the same level as the jacket. Owner, 7 Nov, "у шеи и воротника что-то рябит": the cause was the sharp, wrinkled neck texture meeting a perfectly smooth haze within ~30 px, plus light-blue collar bands running down. Fix: below the chin (from 88.5 %) the photo goes progressively soft (blur 0 → 12 px at the bottom edge, 17 px in the tail). Then each column's colour continues for 72 css px and fades into the card: the jacket smoothed wide, the collar strips replaced by the jacket, the neck muted (55 % skin / 45 % navy) and shorter. The lit chest in the last 5 % is calmed toward the same muted tone. Colour and blur only; no texture is copied, so nothing looks mirrored. Rejected 7 Nov: the neck arc keep-zone. The flat navy under the arc read as a blue spot next to the soft jacket, and the joins at the collars looked patched ("костыльно, не премиально"). Current (v4): one treatment across the full width, with no zones, masks or cut-outs. Below the chin the photo goes progressively soft (0 → 8 px) and fades out from 89 % (smoothstep). Underneath lies a broad gradient in the jacket's own tones (the bottom row with the collar/neck replaced by the jacket, smoothed with σ 160 px: lit left #2f3a57 → shadow right #141827). That gradient then fades into the card over 61 css px. The jacket runs into almost the same colour, so no edge shows; the neck fades into it like everything else. Owner, 7 Nov: "мало воздуха между текстом и портретом": the text block (name, role, text, quote) starts 56 px below the photo (was 18 px) and the card bottom padding is 34 px; the card is longer. Contrast ≥ 7.9:1 in all three. Light text: name #f5f2ea, role/text #c9cfdb, quote rule #a9b894. Contrast ≥ 8.2:1. Variant "Светлая" = the previous light card with the inset photo. Both in the review bar ("Телефон").
 - No buttons in this block (owner, 6 Nov: "пилюли тут не нужны"): "Bel Gert" and "WhatsApp" removed. Gap from the last text line to the shoulder: 53–77 px.
 - If a cleaner extension is ever needed: redo the right 380 px with Photoshop Generative Expand on the original file.
 
